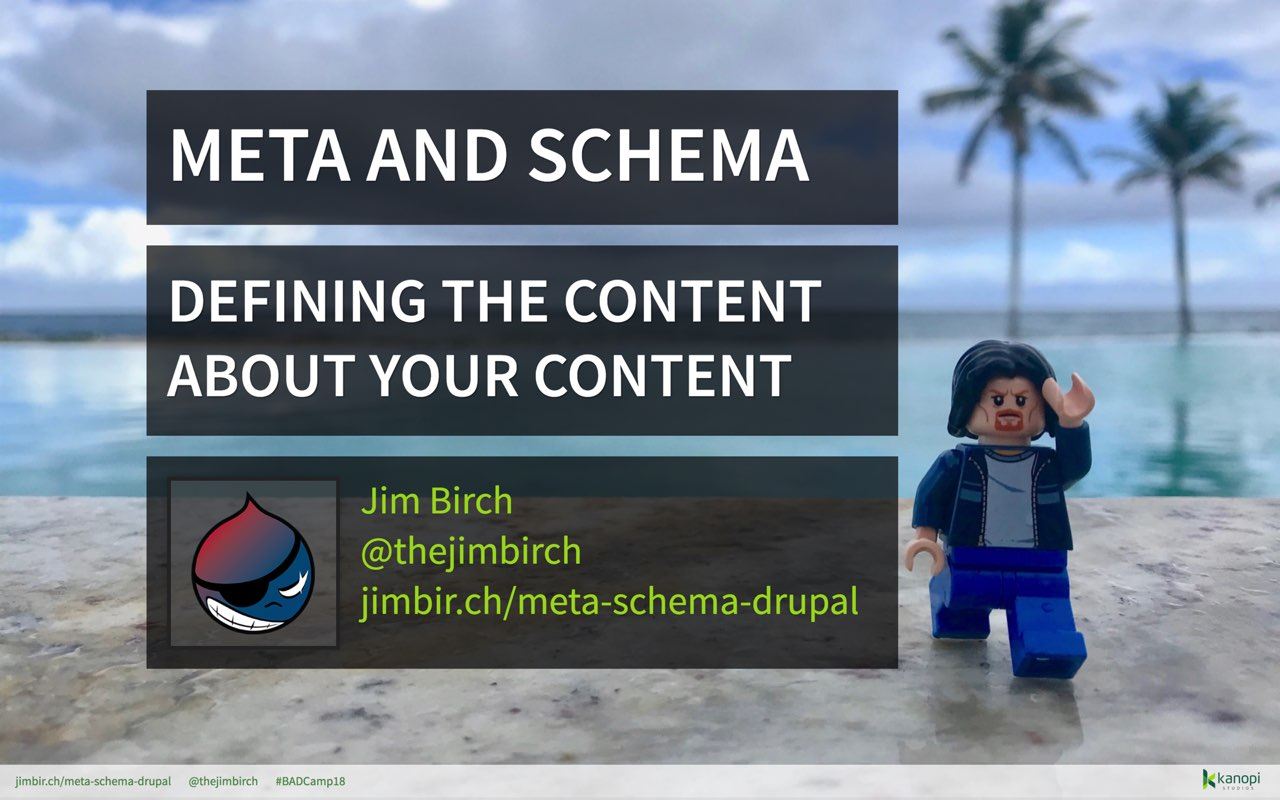
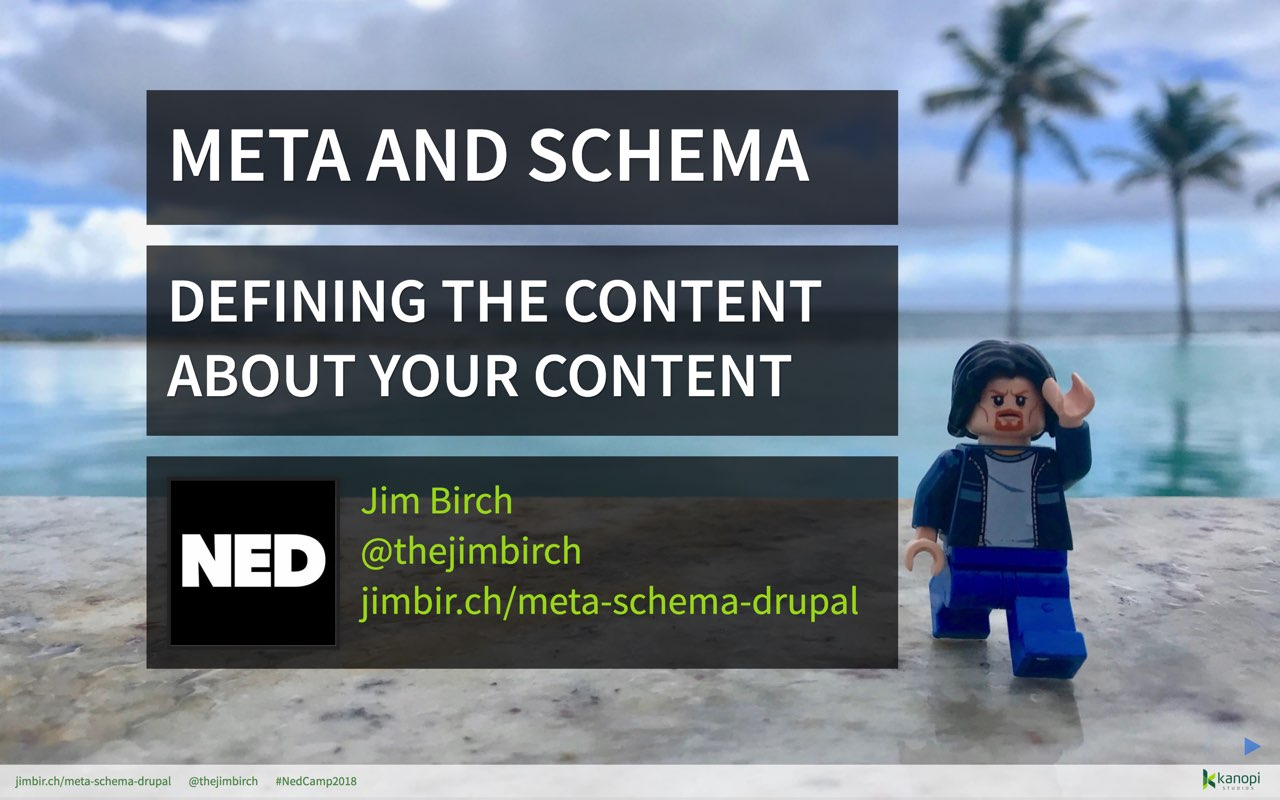
Updates images

Changed region(s): [[0.125, 0.5938, 0.2812, 0.8125], [0.2188, 0.9688, 0.2812, 1.0], [0.9688, 0.9062, 1.0, 0.9375]]

diff --git a/presentations/meta-schema-drupal/index.php b/presentations/meta-schema-drupal/index.php
@@ -10,7 +10,7 @@
     <meta property="og:url" content="https://jimbir.ch/presentations/meta-schema-drupal/"/>
     <meta property="og:title" content="Meta and Schema: Defining the Content about your Content | Web Development Presentation | NEDCamp 2018"/>
     <meta property="og:description" content="This session reviews implementing Schema.org schemas for structured data and current best practice meta tags in Drupal."/>
-    <meta property="og:image" content="https://jimbir.ch/presentations/meta-schema-drupal/img/meta-schema-drupal-720.jpg"/>
+    <meta property="og:image" content="https://jimbir.ch/presentations/meta-schema-drupal/img/meta-schema-drupal-1280.jpg"/>
     <meta name="twitter:card" content="summary_large_image"/>
     <meta name="twitter:site" content="@thejimbirch"/>
     <meta name="twitter:site:id" content="2989027096"/>
@@ -19,10 +19,10 @@
     <meta name="twitter:url" content="https://jimbir.ch/presentations/meta-schema-drupal/"/>
     <meta name="twitter:title" content="Meta and Schema: Defining the Content about your Content | Web Development Presentation | NEDCamp 2018"/>
     <meta name="twitter:description" content="This session reviews implementing Schema.org schemas for structured data and current best practice meta tags in Drupal."/>
-    <meta name="twitter:image:src" content="https://jimbir.ch/presentations/meta-schema-drupal/img/meta-schema-drupal-720.jpg"/>
+    <meta name="twitter:image:src" content="https://jimbir.ch/presentations/meta-schema-drupal/img/meta-schema-drupal-1280.jpg"/>
     <meta itemprop="name" content="Meta and Schema: Defining the Content about your Content | Web Development Presentation | NEDCamp 2018"/>
     <meta itemprop="description" content="This session reviews implementing Schema.org schemas for structured data and current best practice meta tags in Drupal."/>
-    <meta itemprop="image" content="https://jimbir.ch/presentations/meta-schema-drupal/img/meta-schema-drupal-720.jpg"/>
+    <meta itemprop="image" content="https://jimbir.ch/presentations/meta-schema-drupal/img/meta-schema-drupal-1280.jpg"/>
     <meta name="author" content="Jim Birch">
     <meta name="apple-mobile-web-app-capable" content="yes" />
     <meta name="apple-mobile-web-app-status-bar-style" content="black-translucent" />
